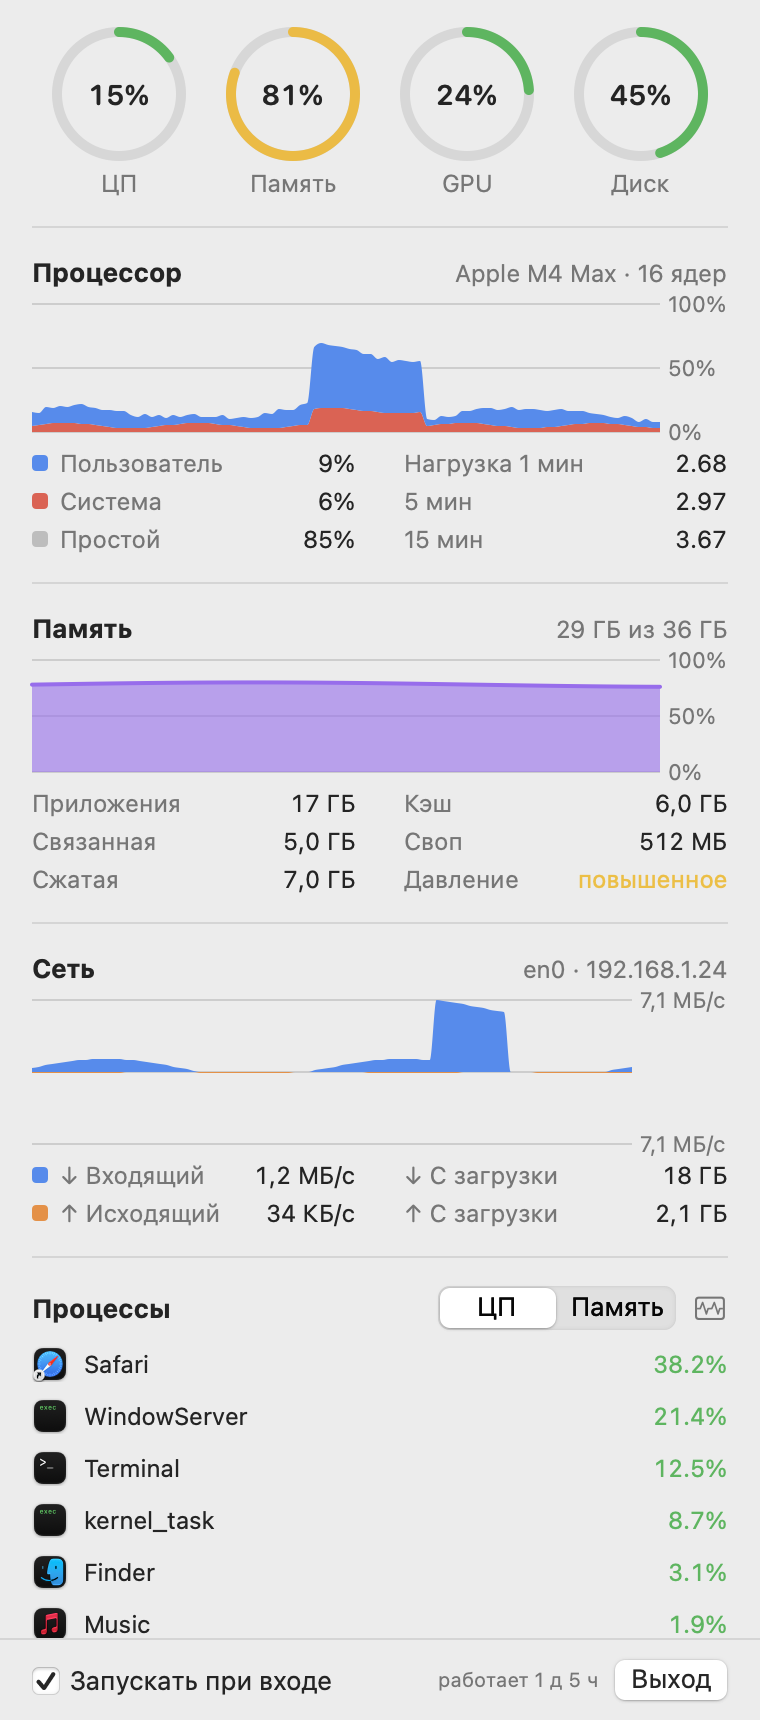
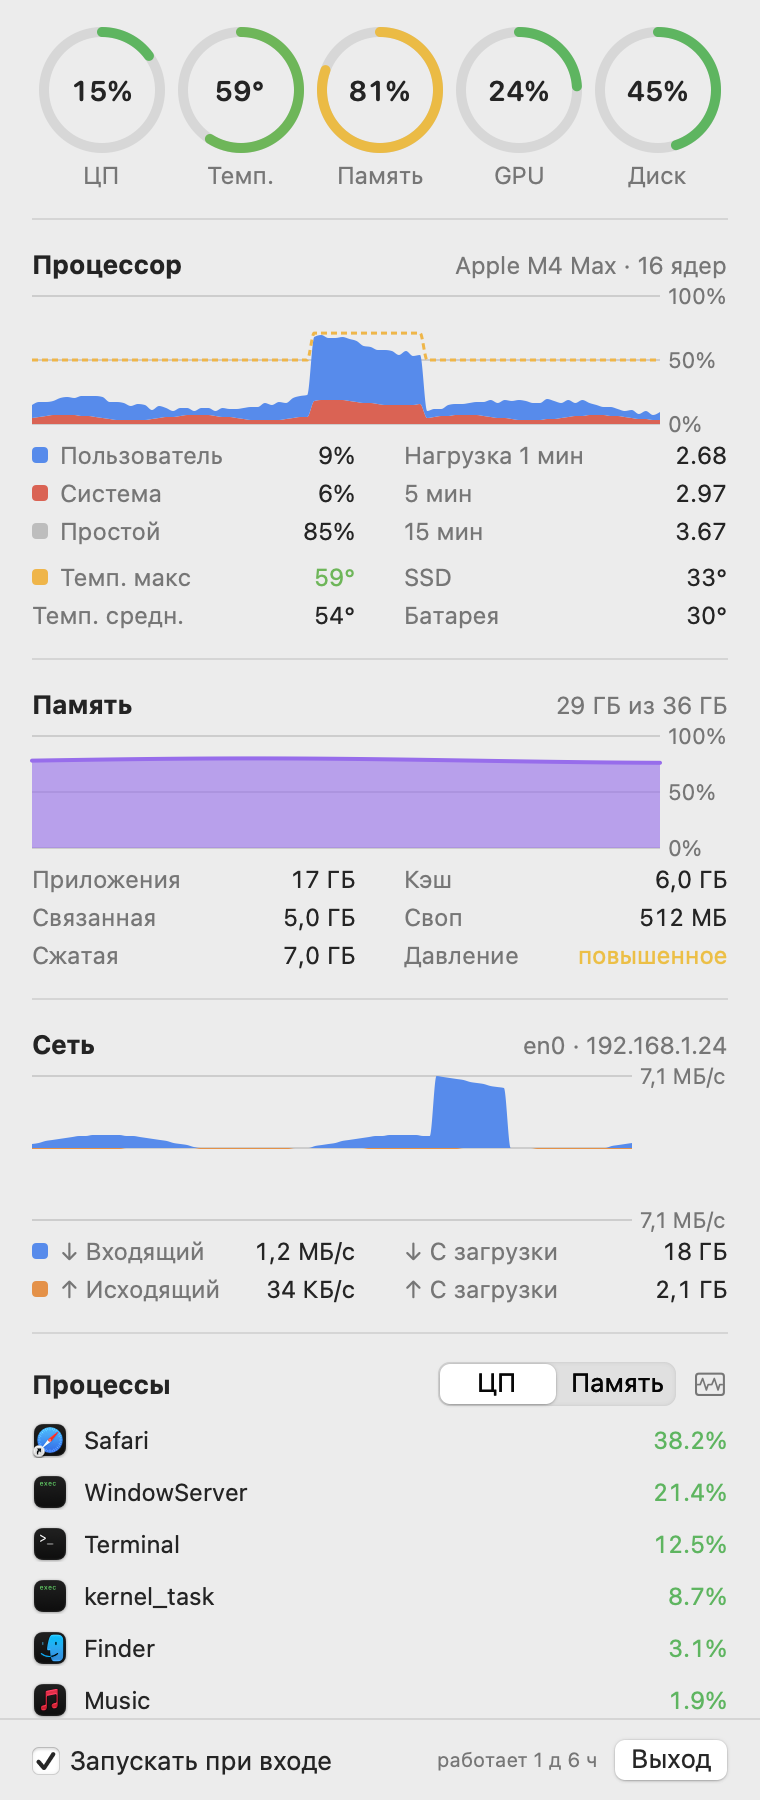
CPU temperature: menu bar shows CPU load and temperature instead of RAM

diff --git a/Sources/SysLoad/PopoverView.swift b/Sources/SysLoad/PopoverView.swift
@@ -25,12 +25,14 @@ struct PopoverView: View {
             Divider()
             Footer().padding(.horizontal, 16).padding(.vertical, 10)
         }
-        .frame(width: 380, height: 860)
+        .frame(width: 380, height: 900)
     }
 
     private var rings: some View {
         HStack(spacing: 0) {
             Ring(title: "ЦП", value: model.cpu.total)
+            Ring(title: "Темп.", value: model.temps.cpuMax.map { Fmt.heat($0) }, text: Fmt.degrees(model.temps.cpuMax))
+                .help("Самый горячий датчик кристалла процессора")
             Ring(title: "Память", value: model.memory.fraction)
             Ring(title: "GPU", value: model.gpu?.utilization)
                 .help(model.gpu.map { "Память GPU: \(Fmt.bytes($0.memoryUsed, binary: true)) из \(Fmt.bytes($0.memoryAllocated, binary: true))" } ?? "")
@@ -46,6 +48,7 @@ struct PopoverView: View {
 private struct Ring: View {
     let title: String
     let value: Double?
+    var text: String?
 
     var body: some View {
         VStack(spacing: 6) {
@@ -56,10 +59,10 @@ private struct Ring: View {
                     .stroke(Palette.color(value ?? 0), style: StrokeStyle(lineWidth: 5, lineCap: .round))
                     .rotationEffect(.degrees(-90))
                     .animation(.easeOut(duration: 0.4), value: value)
-                Text(value.map(Fmt.percent) ?? "—")
+                Text(text ?? value.map(Fmt.percent) ?? "—")
                     .font(.system(size: 14, weight: .semibold, design: .rounded).monospacedDigit())
             }
-            .frame(width: 62, height: 62)
+            .frame(width: 58, height: 58)
             Text(title).font(.callout).foregroundStyle(.secondary)
         }
         .frame(maxWidth: .infinity)
@@ -129,10 +132,19 @@ private struct CPUSection: View {
         }
         VStack(alignment: .leading, spacing: 8) {
             Header(title: "Процессор", trailing: "\(Sampler.chipName) · \(ProcessInfo.processInfo.activeProcessorCount) ядер")
-            Chart(points) { p in
-                AreaMark(x: .value("Время", p.t), y: .value("%", p.v), stacking: .standard)
-                    .foregroundStyle(by: .value("Тип", p.kind))
-                    .interpolationMethod(.monotone)
+            Chart {
+                ForEach(points) { p in
+                    AreaMark(x: .value("Время", p.t), y: .value("%", p.v), stacking: .standard)
+                        .foregroundStyle(by: .value("Тип", p.kind))
+                        .interpolationMethod(.monotone)
+                }
+                // Temperature in °C shares the 0...100 axis with load in %.
+                ForEach(model.history.filter { $0.cpuTemp != nil }) { s in
+                    LineMark(x: .value("Время", s.t), y: .value("°C", s.cpuTemp!), series: .value("Ряд", "темп"))
+                        .foregroundStyle(Palette.temperature)
+                        .lineStyle(StrokeStyle(lineWidth: 1.5, dash: [3, 2]))
+                        .interpolationMethod(.monotone)
+                }
             }
             .chartForegroundStyleScale(["система": Palette.system, "пользователь": Palette.user])
             .chartLegend(.hidden)
@@ -149,6 +161,13 @@ private struct CPUSection: View {
                 KV(key: "Нагрузка 1 мин", value: String(format: "%.2f", model.load[0]))
                 KV(key: "5 мин", value: String(format: "%.2f", model.load[1]))
                 KV(key: "15 мин", value: String(format: "%.2f", model.load[2]))
+            }
+            Columns {
+                KV(key: "Темп. макс", value: Fmt.degrees(model.temps.cpuMax), swatch: Palette.temperature, valueColor: Palette.color(Fmt.heat(model.temps.cpuMax)))
+                KV(key: "Темп. средн.", value: Fmt.degrees(model.temps.cpuAvg))
+            } right: {
+                KV(key: "SSD", value: Fmt.degrees(model.temps.ssd))
+                KV(key: "Батарея", value: Fmt.degrees(model.temps.battery))
             }
         }
     }

diff --git a/Sources/SysLoad/Thermal.swift b/Sources/SysLoad/Thermal.swift
@@ -1,0 +1,64 @@
+import Foundation
+
+/// Degrees Celsius; nil when the Mac has no such sensor (e.g. Intel Macs have no "PMU tdie").
+struct Temperatures {
+    var cpuMax: Double?     // hottest CPU die sensor, shown in the menu bar
+    var cpuAvg: Double?
+    var ssd: Double?
+    var battery: Double?
+}
+
+/// Reads Apple Silicon temperature sensors through the IOHIDEventSystem.
+/// The API is private, so it is looked up with dlsym: if Apple removes it, temperatures just become nil.
+final class Thermal {
+    private typealias ClientCreate = @convention(c) (CFAllocator?) -> Unmanaged<AnyObject>?
+    private typealias SetMatching = @convention(c) (AnyObject, CFDictionary) -> Int32
+    private typealias CopyServices = @convention(c) (AnyObject) -> Unmanaged<CFArray>?
+    private typealias CopyProperty = @convention(c) (AnyObject, CFString) -> Unmanaged<AnyObject>?
+    private typealias CopyEvent = @convention(c) (AnyObject, Int64, Int32, Int64) -> Unmanaged<AnyObject>?
+    private typealias GetFloat = @convention(c) (AnyObject, Int32) -> Double
+
+    private static let temperatureEvent: Int64 = 15                       // kIOHIDEventTypeTemperature
+    private static let temperatureField = Int32(temperatureEvent << 16)   // IOHIDEventFieldBase(type)
+
+    private let copyEvent: CopyEvent?
+    private let getFloat: GetFloat?
+    private var sensors: [(name: String, service: AnyObject)] = []
+    private var client: AnyObject?
+
+    init() {
+        let lib = dlopen("/System/Library/Frameworks/IOKit.framework/IOKit", RTLD_NOW)
+        func sym<T>(_ name: String) -> T? { dlsym(lib, name).map { unsafeBitCast($0, to: T.self) } }
+        copyEvent = sym("IOHIDServiceClientCopyEvent")
+        getFloat = sym("IOHIDEventGetFloatValue")
+        guard let create: ClientCreate = sym("IOHIDEventSystemClientCreate"),
+              let setMatching: SetMatching = sym("IOHIDEventSystemClientSetMatching"),
+              let copyServices: CopyServices = sym("IOHIDEventSystemClientCopyServices"),
+              let copyProperty: CopyProperty = sym("IOHIDServiceClientCopyProperty"),
+              let client = create(kCFAllocatorDefault)?.takeRetainedValue() else { return }
+        self.client = client
+        // Usage page 0xff00 / usage 5: Apple vendor temperature sensors.
+        _ = setMatching(client, ["PrimaryUsagePage": 0xff00, "PrimaryUsage": 5] as CFDictionary)
+        let services = (copyServices(client)?.takeRetainedValue() as? [AnyObject]) ?? []
+        sensors = services.compactMap { s in
+            (copyProperty(s, "Product" as CFString)?.takeRetainedValue() as? String).map { ($0, s) }
+        }
+    }
+
+    func read() -> Temperatures {
+        guard let copyEvent, let getFloat else { return Temperatures() }
+        var cpu: [Double] = [], ssd: [Double] = [], battery: [Double] = []
+        for (name, service) in sensors {
+            guard let event = copyEvent(service, Self.temperatureEvent, 0, 0)?.takeRetainedValue() else { continue }
+            let t = getFloat(event, Self.temperatureField)
+            guard t > 0, t < 150 else { continue }    // disconnected sensors report 0 or garbage
+            if name.hasPrefix("PMU tdie") { cpu.append(t) }
+            else if name.hasPrefix("NAND") { ssd.append(t) }
+            else if name.hasPrefix("gas gauge battery") { battery.append(t) }
+        }
+        return Temperatures(cpuMax: cpu.max(),
+                            cpuAvg: cpu.isEmpty ? nil : cpu.reduce(0, +) / Double(cpu.count),
+                            ssd: ssd.max(),
+                            battery: battery.max())
+    }
+}

diff --git a/Sources/SysLoad/StatusItemController.swift b/Sources/SysLoad/StatusItemController.swift
@@ -2,7 +2,7 @@ import AppKit
 import SwiftUI
 import Combine
 
-/// Menu bar item: "CPU 15%" over "RAM 80%" in two small lines. Everything else lives in the panel.
+/// Menu bar item: "CPU 15%" over "TMP 50°" (hottest CPU die sensor) in two small lines. Everything else lives in the panel.
 @MainActor
 final class StatusItemController: NSObject, NSPopoverDelegate {
     private let model: AppModel
@@ -50,17 +50,19 @@ final class StatusItemController: NSObject, NSPopoverDelegate {
 
     private func render() {
         guard let button = item.button else { return }
-        button.image = Self.image(cpu: model.cpu.total, memory: model.memory.fraction)
-        button.toolTip = "ЦП \(Fmt.percent(model.cpu.total)) · память \(Fmt.percent(model.memory.fraction)) — нажмите, чтобы открыть панель"
+        button.image = Self.image(cpu: model.cpu.total, temperature: model.temps.cpuMax)
+        button.toolTip = "ЦП \(Fmt.percent(model.cpu.total)) · \(Fmt.degrees(model.temps.cpuMax)) — нажмите, чтобы открыть панель"
     }
 
-    static func image(cpu: Double, memory: Double) -> NSImage {
+    static func image(cpu: Double, temperature: Double?) -> NSImage {
         let labelFont = NSFont.systemFont(ofSize: 8, weight: .semibold)
         let valueFont = NSFont.monospacedDigitSystemFont(ofSize: 10, weight: .bold)
-        let rows = [("CPU", cpu, CGFloat(12)), ("RAM", memory, CGFloat(2))]   // (label, value, baseline)
+        // (label, text, load for color, baseline)
+        let rows = [("CPU", Fmt.percent(cpu), cpu, CGFloat(12)),
+                    ("TMP", Fmt.degrees(temperature), Fmt.heat(temperature), CGFloat(2))]
 
         let labels = rows.map { NSAttributedString(string: $0.0, attributes: [.font: labelFont, .foregroundColor: NSColor.secondaryLabelColor]) }
-        let values = rows.map { NSAttributedString(string: Fmt.percent($0.1), attributes: [.font: valueFont, .foregroundColor: Palette.barColor($0.1)]) }
+        let values = rows.map { NSAttributedString(string: $0.1, attributes: [.font: valueFont, .foregroundColor: Palette.barColor($0.2)]) }
         let labelWidth = ceil(labels.map { $0.size().width }.max() ?? 0)
         // Fixed value width ("100%"), right-aligned: the item doesn't jitter as numbers change.
         let valueWidth = ceil(("100%" as NSString).size(withAttributes: [.font: valueFont]).width)
@@ -69,8 +71,8 @@ final class StatusItemController: NSObject, NSPopoverDelegate {
         // draw(at:) takes the line's bottom-left corner; the baseline sits `descender` above it.
         let img = NSImage(size: NSSize(width: width, height: 22), flipped: false) { _ in
             for (i, row) in rows.enumerated() {
-                labels[i].draw(at: NSPoint(x: 0, y: row.2 + labelFont.descender))
-                values[i].draw(at: NSPoint(x: width - values[i].size().width, y: row.2 + valueFont.descender))
+                labels[i].draw(at: NSPoint(x: 0, y: row.3 + labelFont.descender))
+                values[i].draw(at: NSPoint(x: width - values[i].size().width, y: row.3 + valueFont.descender))
             }
             return true
         }

diff --git a/Sources/SysLoad/Snapshot.swift b/Sources/SysLoad/Snapshot.swift
@@ -22,7 +22,7 @@ enum Snapshot {
             let suffix = appearance == .aqua ? "light" : "dark"
             let host = NSHostingView(rootView: PopoverView().environmentObject(model)
                 .background(Color(nsColor: .windowBackgroundColor)))
-            host.frame = NSRect(x: 0, y: 0, width: 380, height: 860)
+            host.frame = NSRect(x: 0, y: 0, width: 380, height: 900)
             host.appearance = NSAppearance(named: appearance)
             let win = NSWindow(contentRect: host.frame, styleMask: [.borderless], backing: .buffered, defer: false)
             win.appearance = NSAppearance(named: appearance)
@@ -31,7 +31,7 @@ enum Snapshot {
             try? await Task.sleep(nanoseconds: 500_000_000)
             save(host, to: dir.appendingPathComponent("panel-\(suffix).png"))
 
-            let img = StatusItemController.image(cpu: model.cpu.total, memory: model.memory.fraction)
+            let img = StatusItemController.image(cpu: model.cpu.total, temperature: model.temps.cpuMax)
             let bar = NSView(frame: NSRect(x: 0, y: 0, width: img.size.width + 24, height: 24))
             bar.appearance = NSAppearance(named: appearance)
             bar.wantsLayer = true
@@ -56,6 +56,7 @@ enum Snapshot {
                 t: now.addingTimeInterval(-AppModel.interval * Double(AppModel.historyLength - 1 - i)),
                 cpuUser: 0.08 + 0.05 * sin(x / 5) + burst + Double.random(in: 0...0.04),
                 cpuSystem: 0.05 + 0.02 * sin(x / 3) + burst / 3,
+                cpuTemp: 50 + burst * 60,
                 memory: 0.78 + 0.02 * sin(x / 20),
                 rx: max(0, 400_000 + 900_000 * sin(x / 7) + ((60...70).contains(i) ? 6_000_000 : 0)),
                 tx: max(0, 60_000 + 40_000 * sin(x / 4)))
@@ -67,6 +68,7 @@ enum Snapshot {
         m.netTotals = NetCounters(rx: 18_400_000_000, tx: 2_100_000_000)
         m.load = [2.68, 2.97, 3.67]
         m.gpu = GPUInfo(utilization: 0.24, memoryUsed: 1_810_000_000, memoryAllocated: 4_590_000_000)
+        m.temps = Temperatures(cpuMax: 59, cpuAvg: 54, ssd: 33, battery: 30)
         m.disk = DiskInfo(total: 1_000_000_000_000, free: 550_000_000_000)
         m.interface = ("en0", "192.168.1.24")
         m.processes = [

diff --git a/Sources/SysLoad/AppModel.swift b/Sources/SysLoad/AppModel.swift
@@ -6,6 +6,7 @@ final class AppModel: ObservableObject {
     struct Sample: Identifiable {
         let t: Date
         let cpuUser: Double, cpuSystem: Double   // 0...1
+        var cpuTemp: Double?                     // °C, hottest die sensor
         let memory: Double                       // 0...1
         let rx: Double, tx: Double               // bytes/s
         var id: Date { t }
@@ -21,6 +22,7 @@ final class AppModel: ObservableObject {
     @Published var load: [Double] = [0, 0, 0]
     @Published var gpu: GPUInfo?
     @Published var disk: DiskInfo?
+    @Published var temps = Temperatures()
     @Published var interface: (name: String, ip: String?)?
     @Published var history: [Sample] = []
     @Published var processes: [ProcGroup] = []
@@ -31,6 +33,7 @@ final class AppModel: ObservableObject {
 
     let bootTime = Sampler.bootTime()
     private let sampler = Sampler()
+    private let thermal = Thermal()
     private let psQueue = DispatchQueue(label: "sysload.ps", qos: .utility)
     private var psRunning = false
     private var timer: Timer?
@@ -51,9 +54,10 @@ final class AppModel: ObservableObject {
     func tick() {
         now = Date()
         cpu = sampler.cpu()
+        temps = thermal.read()
         memory = sampler.memory()
         (net, netTotals) = sampler.network()
-        history.append(Sample(t: now, cpuUser: cpu.user, cpuSystem: cpu.system,
+        history.append(Sample(t: now, cpuUser: cpu.user, cpuSystem: cpu.system, cpuTemp: temps.cpuMax,
                               memory: memory.fraction, rx: net.rx, tx: net.tx))
         if history.count > Self.historyLength { history.removeFirst(history.count - Self.historyLength) }
         if panelOpen { refreshDetails() }

diff --git a/Sources/SysLoad/Format.swift b/Sources/SysLoad/Format.swift
@@ -37,6 +37,7 @@ enum Palette {
 
     static let user = Color(.sRGB, red: 0.27, green: 0.55, blue: 0.95)
     static let system = Color(.sRGB, red: 0.92, green: 0.35, blue: 0.30)
+    static let temperature = Color(.sRGB, red: 0.98, green: 0.70, blue: 0.15)
     static let memory = Color(.sRGB, red: 0.62, green: 0.42, blue: 0.95)
     static let download = Color(.sRGB, red: 0.27, green: 0.55, blue: 0.95)
     static let upload = Color(.sRGB, red: 0.95, green: 0.55, blue: 0.20)
@@ -44,6 +45,11 @@ enum Palette {
 
 enum Fmt {
     static func percent(_ fraction: Double) -> String { "\(Int((fraction * 100).rounded()))%" }
+
+    static func degrees(_ t: Double?) -> String { t.map { "\(Int($0.rounded()))°" } ?? "—" }
+
+    /// Temperature as a 0...1 load for coloring: yellow from ~80°, red near 100° (Apple Silicon throttles ~105°).
+    static func heat(_ t: Double?) -> Double { (t ?? 0) / 100 }
 
     /// "1,2", "12", "123": one decimal only below 10.
     private static func number(_ v: Double) -> String {

diff --git a/README.md b/README.md
@@ -1,6 +1,6 @@
 # SysLoad
 
-Лёгкая утилита для строки меню macOS: коротко показывает загрузку процессора и памяти, а по клику — подробную панель.
+Лёгкая утилита для строки меню macOS: коротко показывает загрузку и температуру процессора, а по клику — подробную панель.
 
 ![menu bar](docs/menubar-light.png)
 
@@ -8,10 +8,10 @@
 
 ## Что умеет
 
-- **Строка меню**: `CPU 15%` над `RAM 80%` — две мелкие строки, ≈45 pt ширины. Цифры обычного цвета, при нагрузке от 70% желтеют, у 100% — красные. Ширина фиксирована, строка не «прыгает».
+- **Строка меню**: `CPU 15%` над `TMP 59°` — две мелкие строки, ≈45 pt ширины. Температура — самый горячий датчик кристалла процессора. Цифры обычного цвета, к 80% / 80° желтеют, у 100% / 100° — красные; ширина фиксирована, строка не «прыгает».
 - **Панель по клику**:
-  - кольца: ЦП, память, GPU, диск;
-  - **процессор** — график за 3 минуты (пользователь / система), простой, средняя нагрузка за 1/5/15 минут, модель чипа и число ядер;
+  - кольца: ЦП, температура, память, GPU, диск;
+  - **процессор** — график за 3 минуты (пользователь / система + линия температуры), простой, средняя нагрузка за 1/5/15 минут, температура (макс. и средняя по кристаллу, SSD, батарея), модель чипа и число ядер;
   - **память** — график, приложения / связанная / сжатая / кэш (как в «Мониторинге системы»), своп, давление памяти;
   - **сеть** — график входящего и исходящего трафика, текущая скорость, объём с момента загрузки, основной интерфейс и IP;
   - **процессы** — топ по ЦП или памяти, вспомогательные процессы сгруппированы по приложению (все `Code Helper` → `Visual Studio Code`).
@@ -34,6 +34,7 @@
 - Память — `host_statistics64(HOST_VM_INFO64)`, своп — `vm.swapusage`, давление — `kern.memorystatus_vm_pressure_level`.
 - Сеть — 64-битные счётчики `NET_RT_IFLIST2` по физическим интерфейсам; туннели VPN (`utun*`), `lo0`, AirDrop не считаются, чтобы трафик не задваивался.
 - GPU — `PerformanceStatistics` у `IOAccelerator`.
+- Температура — датчики Apple Silicon через `IOHIDEventSystemClient` (`PMU tdie*` — кристалл, `NAND` — SSD, `gas gauge battery`). Это приватный API, он подключается через `dlsym`: если Apple его уберёт, температура просто покажется как «—». На Intel-маках этих датчиков нет.
 - Процессы — `ps`.
 
 ## Разработка
